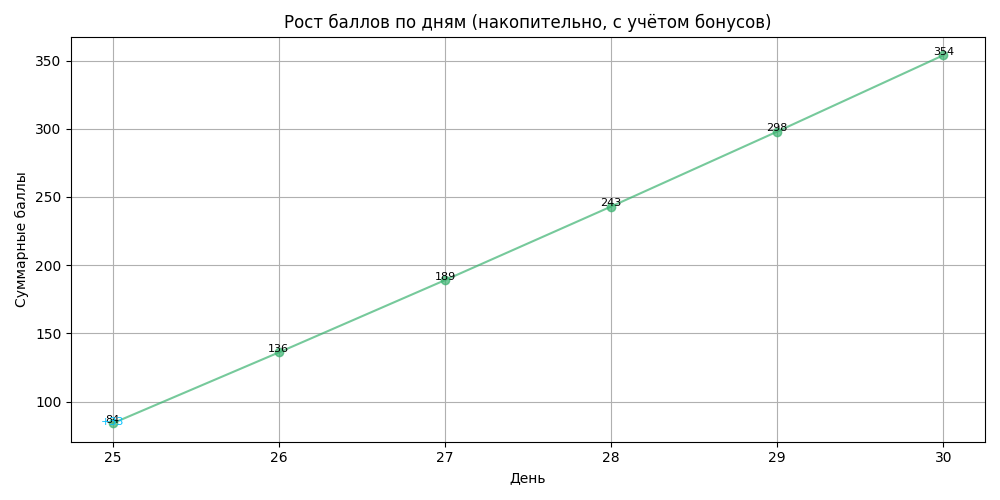
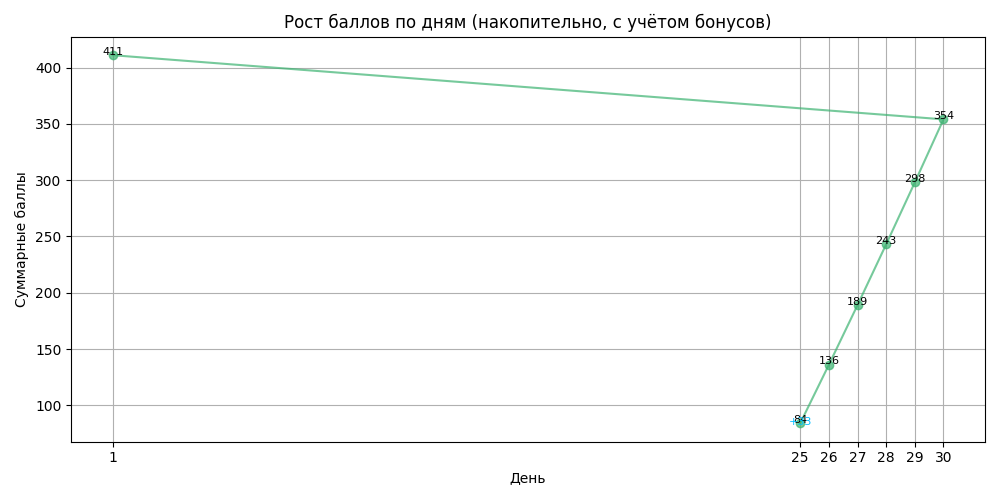
catboost day7 --rating 79

diff --git a/BoostChallenge/1July/solve.py b/BoostChallenge/1July/solve.py
@@ -1,0 +1,18 @@
+def solution(n: int) -> int:
+    import sys
+    sys.setrecursionlimit(1000000)
+    MOD = 10**9 - 7538
+    memo = {0: 1}
+
+    def calc(k):
+        if k in memo:
+            return memo[k]
+        a = calc(k // 2)
+        b = calc(k // 3)
+        c = calc(k // 4)
+        res = (pow(a, b, MOD) + 5 * c + k) % MOD
+        memo[k] = res
+        return res
+
+    return calc(n)
+
